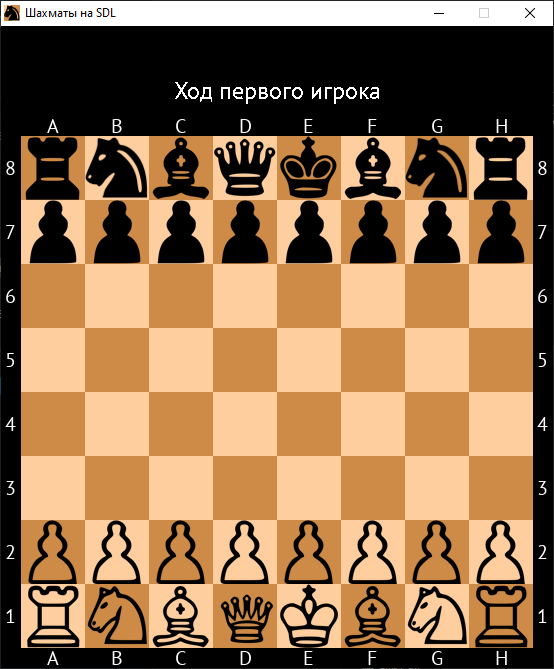
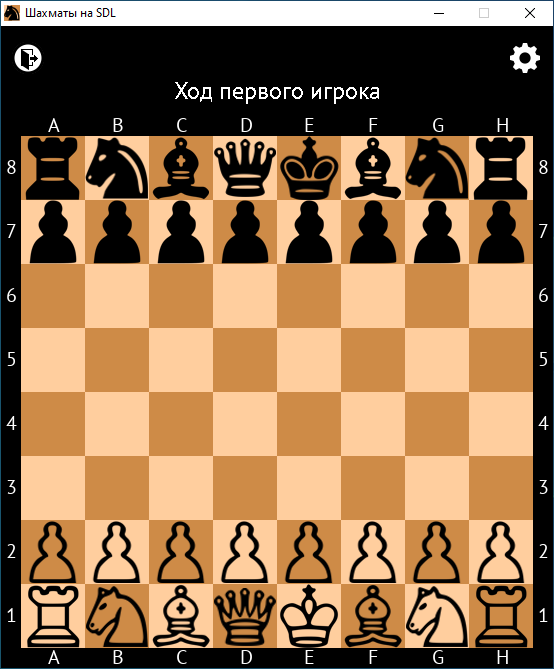
Small improvements Screeshots updating Exceptions moving

diff --git a/src/data/cycleTemplate.hpp b/src/data/cycleTemplate.hpp
@@ -17,9 +17,13 @@ class CycleTemplate {
     bool running = true;    // Flag of running current cycle
     int mouseX, mouseY;     // Current position of mouse
 
-    // Function for run internal cycle
+    // Run internal cycle
     template <class Cycle>
     bool runCycle();
+
+    // Run internal cycle with parameters
+    template <class Cycle, typename Param>
+    bool runCycle(Param args);
 
     // Cycle functions for cycle (should be overriden)
     void getInput();            // Getting all user input
@@ -37,7 +41,8 @@ class CycleTemplate {
 };
 
 
-// Realisation of running internal cycle
+// Realisations
+// Run internal cycle
 template <class Cycle>
 bool CycleTemplate::runCycle() {
     // Entering cycle for correct updations
@@ -45,6 +50,30 @@ bool CycleTemplate::runCycle() {
 
     // Launching new cycle
     Cycle cycle;
+
+    // Running cycle
+    cycle.run();
+
+    // Checking for exit
+    if (!data.appRunning) {
+        return true;
+    }
+
+    // Exiting updation cycle
+    data.updateList.exitCycle();
+
+    // Normal return
+    return false;
+}
+
+// Run cycle with parameters
+template <class Cycle, typename Param>
+bool CycleTemplate::runCycle(Param args) {
+    // Entering cycle for correct updations
+    data.updateList.enterCycle();
+
+    // Launching new cycle
+    Cycle cycle(args);
 
     // Running cycle
     cycle.run();

diff --git a/src/data/internet/message.cpp b/src/data/internet/message.cpp
@@ -5,7 +5,7 @@
 
 #include "message.hpp"
 
-//
+
 MessageSender::MessageSender() {
     // Resetting ID counter
     ID = 0;
@@ -14,7 +14,6 @@ MessageSender::MessageSender() {
     sendData.maxlen = INTERNET_BUFFER;
 }
 
-// Clearing data
 MessageSender::~MessageSender() {
     // Clearing dynamic memory
     for (Uint8 i=0; i < confirmMessages.size(); ++i) {
@@ -24,7 +23,6 @@ MessageSender::~MessageSender() {
     confirmMessages.clear();
 }
 
-//
 void MessageSender::send(Message& _message) {
     // Moving pointer with data to send packet
     sendData.data = _message.data;
@@ -43,7 +41,7 @@ void MessageSender::send(Message& _message) {
 
 // Setting message with this id as applied
 void MessageSender::applyMessage(Uint8 id) {
-    // Searching for need id (from start)
+    // Searching for need id
     for (Uint8 i=0; i < confirmMessages.size(); ++i) {
         if (confirmMessages[i].data[1] == id) {
             // Clearing dynamic memory before deleting

diff --git a/src/data/internet/message.hpp b/src/data/internet/message.hpp
@@ -48,13 +48,9 @@ class MessageSender {
 
  protected:
     // Data for internet work
-    UDPsocket socket;          // Socket to send/recieve data
-
-    // Packet to send data
-    UDPpacket sendData;
-
-    // Timer, when last message send to control connection
-    timer lastMessageSend;
+    UDPsocket socket;       // Socket to send/recieve data
+    UDPpacket sendData;     // Packet to send data
+    timer lastMessageSend;  // Timer, when last message send to control connection
 
     void applyMessage(Uint8 id);  // Setting message with this id as applied
     void checkNeedResend();       // Function for check, if need resend any of the messages

diff --git a/src/cycles/baseCycle.hpp b/src/cycles/baseCycle.hpp
@@ -13,8 +13,8 @@ class BaseCycle : public CycleTemplate {
  protected:
     Uint8 selectedBox;      // Number of which box is currently selected
     const MUS_names music;  // Music track to play (or NULL, if not need start)
-    static SettingsMenu settings;        // Menu for change settings
-    static GUI::ImageButton exitButton;  // Button for exit from selected mode
+    static SettingsMenu settings;  // Menu for change settings
+    const static GUI::ImageButton exitButton;  // Button for exit from selected mode
  public:
     BaseCycle(MUS_names song = MUS_START_NONE);
     void update() override;

diff --git a/src/data/graphics.hpp b/src/data/graphics.hpp
@@ -67,6 +67,6 @@ class Textures : virtual GraphicsLibrary, public virtual DataLoader {
     #endif
  public:
     SDL_Texture *textures[IMG_count];  // Array of all textures
-    Textures();   // Loading all data, need for work with textures
-    ~Textures();  // Clear all data from textures
+    Textures();
+    ~Textures();
 };

diff --git a/src/data/internet/internetCycle.cpp b/src/data/internet/internetCycle.cpp
@@ -6,13 +6,10 @@
 #include "internetCycle.hpp"
 
 
-//
+// Internet cycle class
 InternetCycle::InternetCycle() {}
 
-//
-InternetCycle::~InternetCycle() {}
-
-// Function for start need cycle
+// Own function for start need cycle
 void InternetCycle::run() {
     // Starting main cycle
     while (running) {

diff --git a/src/cycles/client.hpp b/src/cycles/client.hpp
@@ -10,7 +10,7 @@
 #include "gameCycle.hpp"
 #include "../data/internet/internetClient.hpp"
 
-//
+// Class of game cycle for client with connection part
 class ClientGameCycle : public InternetClientCycle {
  private:
     bool waitStart = true;     // Flag of waiting for game start

diff --git a/src/main.cpp b/src/main.cpp
@@ -10,7 +10,7 @@
 Data data;
 
 // Declaration of global 
-GUI::ImageButton BaseCycle::exitButton{0.05, 0.05, IMG_GUI_QUIT_BUTTON};
+const GUI::ImageButton BaseCycle::exitButton{0.05, 0.05, IMG_GUI_QUIT_BUTTON};
 SettingsMenu BaseCycle::settings;
 
 // Main function

diff --git a/src/data/internet/internetCycle.hpp b/src/data/internet/internetCycle.hpp
@@ -17,7 +17,6 @@ class InternetCycle : public Internet, public GameCycle {
 
  public:
     InternetCycle();
-    ~InternetCycle();
 
     // Main cycle function (special for internet use)
     void run() override;

diff --git a/src/data/application.cpp b/src/data/application.cpp
@@ -5,7 +5,7 @@
 
 #include "application.hpp"
 #include "../define.hpp"
-#include "../workCodes.hpp"
+#include "loadExceptions.hpp"
 
 // Function of creating window and renderer for outputing image
 App::App() {

diff --git a/src/data/audio/audio.hpp b/src/data/audio/audio.hpp
@@ -8,7 +8,7 @@
 #include "../../include.hpp"
 #include "../../define.hpp"
 #include "../../dataTypes.hpp"
-#include "../../workCodes.hpp"
+#include "../loadExceptions.hpp"
 
 
 // Class for working with audio

diff --git a/src/data/archieveLoader.cpp b/src/data/archieveLoader.cpp
@@ -8,7 +8,7 @@
 #include "../define.hpp"
 #include "../dataTypes.hpp"
 #include "dataLoader.hpp"
-#include "../workCodes.hpp"
+#include "loadExceptions.hpp"
 
 
 // Functions for loading data from archieve
